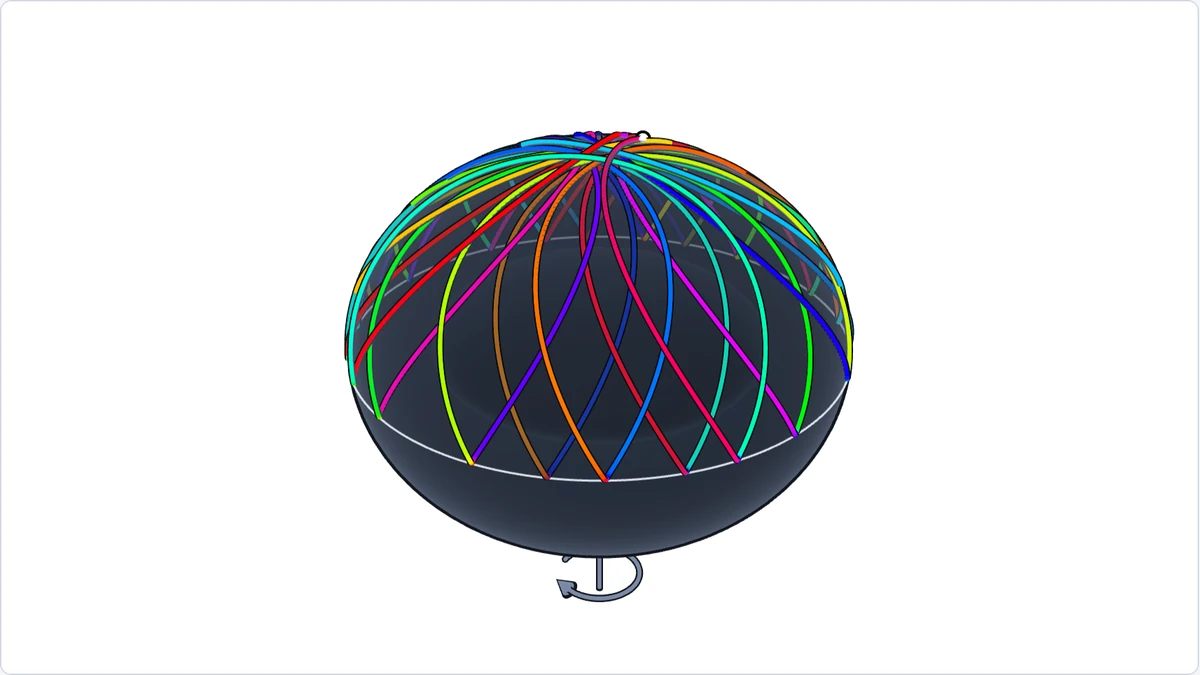
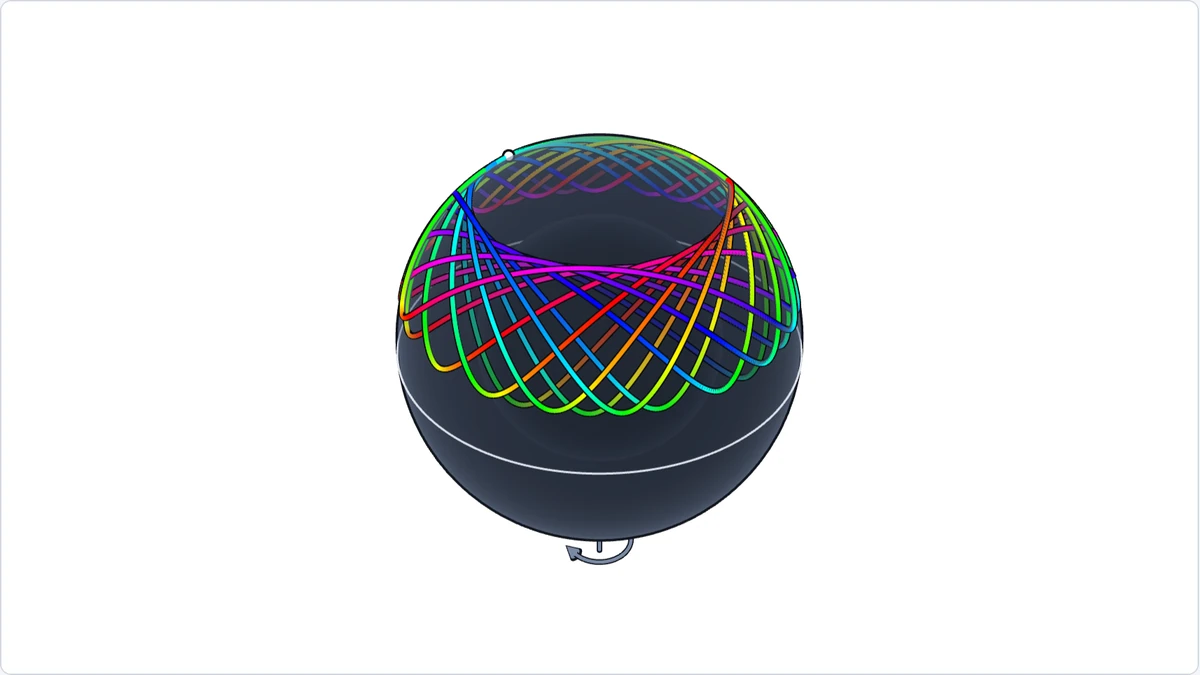
Use the Equal spins orbit for the card, at the default zoom
Mark chose it over Fig 4.10's. Its spheroid is larger, so the card keeps
the default zoom, which leaves room for the spin arrow below it.

Changed region(s): [[0.2775, 0.1867, 0.7092, 0.9022]]

diff --git a/scripts/stills.py b/scripts/stills.py
@@ -2,7 +2,7 @@
 
 - static.webp: the opening state, Fig 4.5's orbit with the side panel beside it, shown while the
   demo loads and without JavaScript.
-- thumb.webp and og.jpg: the 3D view alone, zoomed in one step, on CARD's orbit and trail, for the
+- thumb.webp and og.jpg: the 3D view alone, on CARD's orbit and trail, at the default zoom, for the
   project card and link previews.
 - static-light.webp and thumb-light.webp: the same in the light theme, which the site shows under
   its light theme. og.jpg stays dark only: link previews have no theme.
@@ -35,7 +35,7 @@ OUT = ROOT / "demo" / "public"
 THEMES = ("dark", "light")
 BACKGROUND = {"dark": (10, 14, 20), "light": (245, 246, 248)}  # --color-bg in each theme
 # The card's orbit: a preset, by its name in the drop-down, and the trail's length in λ.
-CARD = {"preset": "Fig 4.10: φ and ψ turn back", "trail": 60}
+CARD = {"preset": "Equal spins (a = b)", "trail": 100}
 # Wide enough for the side panel to sit beside the 3D view; the stage is then about 860 px wide.
 VIEWPORT = {"width": 1200, "height": 1000}
 SCALE = 2
@@ -116,7 +116,7 @@ def main():
         opening = shoot(page)
         page.close()
 
-        # The card: CARD's orbit and trail, zoomed in one step from the default.
+        # The card: CARD's orbit and trail.
         page, more = open_page(browser, url, CARD_STYLE)
         errors += more
         page.get_by_label("Preset").select_option(label=CARD["preset"])
@@ -124,8 +124,6 @@ def main():
             "(el, value) => { el.value = value; el.dispatchEvent(new Event('input', { bubbles: true })); }",
             math.log10(CARD["trail"]),
         )
-        page.locator("canvas.po-canvas").press("+")
-        page.evaluate("document.activeElement.blur()")  # no focus ring in the still
         card = shoot(page)
         page.evaluate("document.documentElement.style.setProperty('--still-shape', '1200 / 630')")
         og = shoot(page, ("dark",))["dark"]

diff --git a/docs/plan.md b/docs/plan.md
@@ -293,7 +293,7 @@ Mark set the status to `live` on 2026-11-21, in `v1.0.0`, ahead of the rest of t
 - [x] **On a phone** (Mark, 2026-11-21).
 - [x] **Stills** from the demo, in both themes, with `scripts/stills.py` and Playwright (Mark, 2026-11-21: light and dark should show the same thing). v1.0.1.
   - `static.webp` and `static-light.webp`: the opening state, the 3D view and the side panel, as a visitor first sees them, without the zoom buttons.
-  - `thumb.webp`, `thumb-light.webp` and `og.jpg`: the 3D view alone, zoomed in one step, without the colour key, on Fig 4.10's orbit with a trail of λ = 60. It is one of the paper's figures, and its strands stay distinct at the card's size, about 380 px wide. `og.jpg` is dark only: link previews have no theme.
+  - `thumb.webp`, `thumb-light.webp` and `og.jpg`: the 3D view alone, at the default zoom, without the colour key, on the Equal spins preset's orbit (a = b = 0.4) with a trail of λ = 100 (Mark chose it, 2026-11-21, over Fig 4.10's). The default zoom keeps the spin arrow in the picture. `og.jpg` is dark only: link previews have no theme.
   - The demo starts paused under reduced motion, so every still is of the same moment, and the two themes show the same thing.
 - [x] **Manifest.** The tags stay as they are (Mark, 2026-11-21), and the release sets `built`. There is no `about`: the site's project page now has a "More info" tab with Mark's write-up, and the frame would show "How this works" under the demo, repeating it. The status is `live` since `v1.0.0` (Mark, 2026-11-21).
 - [x] **Site:** Mark wrote the write-up, as questions that open, on the project page's "More info" tab (2026-11-21). Checked in Edge on the live site: opened on "More info", then switched to "Demo", the 3D view and the side panel come up at their full size, with no console errors.
@@ -330,7 +330,7 @@ Settled with Mark on 2026-11-20. The comparison page, <https://claude.ai/artifac
 | Which way the hole turns | An arrow below the spheroid for a, where it is out of the paths' way, and one round the colour wheel for b, whose turning shows only in ψ (after step 4). |
 | The side panel's φ and ψ | From 0 to 2π, as on the torus, rather than unwrapped (after step 4). |
 | A custom orbit's colours | ψ = 0, red, at θ_min, so Ψ = 0 orbits at b = 0 are red, as in pictures of Kerr orbits (after step 4). |
-| The still images | The same picture in both themes (Mark). The card and link preview show Fig 4.10's orbit with a trail of λ = 60, which Claude chose (step 5). |
+| The still images | The same picture in both themes (Mark). The card and link preview show the Equal spins orbit with a trail of λ = 100, which Mark chose (step 5). |
 
 ## Risks
 

diff --git a/demo/README.md b/demo/README.md
@@ -34,4 +34,4 @@ The files to edit:
 | `src/trail.js`, `src/colour.js` | The path ready to draw: `fill()` writes the 3D trail and `trace()` walks it for the panel. And the paper's colour wheel. `test/trail.test.js` checks them. |
 | `src/physics/` | The orbits: a port of the Python reference model in `../src/photon_orbits/`, explained in `../docs/equations.md`. Change both together and regenerate `../tests/fixtures/orbits.json`, which `test/physics.test.js` replays. |
 | `public/data/`, `public/model/` | Runtime files. |
-| `public/static.webp`, `thumb.webp`, `og.jpg`, and the light versions `static-light.webp` and `thumb-light.webp` | The still images: the opening state, shown while the demo loads, and the project card and link preview, Fig 4.10's orbit. `../scripts/stills.py` renders them from the built demo: run `npm run build`, then `uv run --with playwright --with pillow python scripts/stills.py` from the repo root, then build again. |
+| `public/static.webp`, `thumb.webp`, `og.jpg`, and the light versions `static-light.webp` and `thumb-light.webp` | The still images: the opening state, shown while the demo loads, and the project card and link preview, the Equal spins preset's orbit. `../scripts/stills.py` renders them from the built demo: run `npm run build`, then `uv run --with playwright --with pillow python scripts/stills.py` from the repo root, then build again. |
